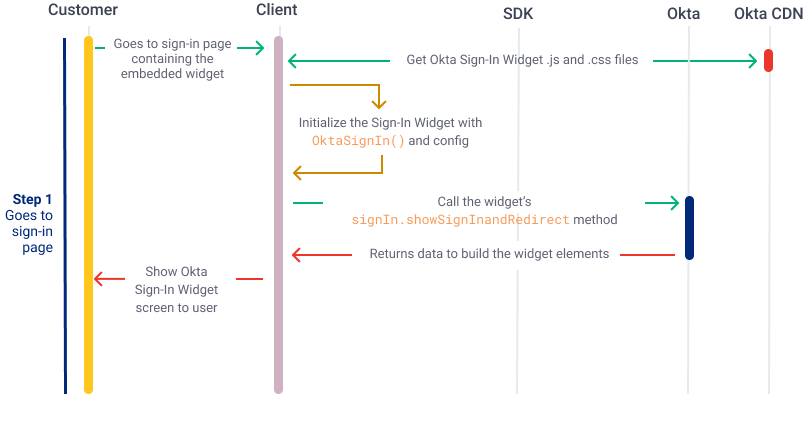
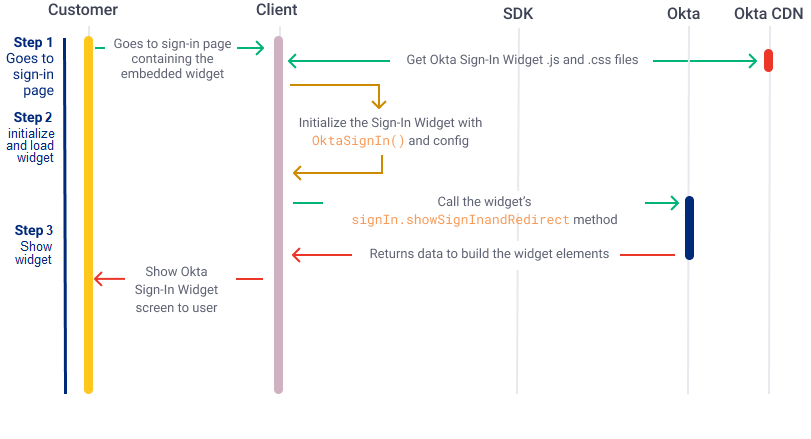
Updates to sequence images for widget use cases and minor text updates

Changed region(s): [[0.0, 0.0888, 0.0925, 0.385], [0.0, 0.4442, 0.0617, 0.6219]]

diff --git a/packages/@okta/vuepress-site/docs/guides/oie-embedded-sdk-use-cases/oie-embedded-sdk-use-case-pwd-recovery-mfa/nodejs/integrationsteps.md b/packages/@okta/vuepress-site/docs/guides/oie-embedded-sdk-use-cases/oie-embedded-sdk-use-case-pwd-recovery-mfa/nodejs/integrationsteps.md
@@ -54,6 +54,8 @@ The next step is to create a page that shows the authenticator returned from the
 
 </div>
 
+### Step 3: Select the email authenticator factor
+
 After the user selects the email authenticator, the next step is to call `idx.recoverPassword` with the authenticator type, as shown in the `authenticator.js` file of the SDK sample application. The method returns a status of `Idx.Status:PENDING`. This status indicates that the Okta platform has emailed the verification code to the user's email address and is now awaiting verification. The response also includes a `nextStep` field that requires an email verification code input parameter.
 
 ```JavaScript
@@ -66,7 +68,7 @@ router.post('/select-authenticator', async (req, res, next) => {
 });
 ```
 
-### Step 4: Create code verification page
+### Step 4: Create code verification page and reset password
 
 After the call to `idx.recoverPassword` has responded with a status of `Idx.Status:PENDING`, the user is redirected to a code verification page. The page must display a field to enter a code and a button or link to send the code to Okta for the email verification.
 
@@ -90,8 +92,6 @@ router.post('/challenge-authenticator/email', async (req, res, next) => {
 
 If the `idx.recoverPassword` call is successful, it returns a status of `Idx.Status:PENDING` and the `nextStep` field indicates an input of a password value parameter. This status indicates that the user can now change their password. At this point, the user is redirected to a change password page.
 
-### Step 5: Create reset password page
-
 Create a reset password page that allows the user to enter the new password, confirm it, and initiate the update.
 
 <div class="common-image-format">
@@ -99,6 +99,8 @@ Create a reset password page that allows the user to enter the new password, con
 ![Displays the Reset Password page that has a field to input your password and a field to confirm the password value.](/img/oie-embedded-sdk/oie-embedded-sdk-use-case-pwd-recovery-screenshot-set-password-nodejs.png)
 
 </div>
+
+### Step 5: Add new password
 
 The final step is to make a call to `idx.recoverPassword`, passing in the value of the user input password, as shown in the `recover-password.js` file of the SDK sample application. This call resets the user's password.
 

diff --git a/packages/@okta/vuepress-site/docs/guides/oie-embedded-widget-use-cases/oie-embedded-widget-use-case-sign-in-soc-idp/nodejs/integrationsteps.md b/packages/@okta/vuepress-site/docs/guides/oie-embedded-widget-use-cases/oie-embedded-widget-use-case-sign-in-soc-idp/nodejs/integrationsteps.md
@@ -26,6 +26,7 @@ you need to make in your app to support to this step.
 </div>
 
 ### Step 3: Facebook redirects to your Okta org
+
 If the user Facebook login is successful, facebook routes the user to the value you enter for **Valid OAuth Redirect URIs** and **Site URL** in
 [Set up your Okta org (for social identity providers)](/docs/guides/oie-embedded-common-org-setup/nodejs/main/#set-up-your-okta-org-for-social-identity-providers).
 The value takes on the following format:  `https://{Okta org domain}/oauth2/v1/authorize/callback.` (for example, `https://dev-12345678.okta.com/oauth2/v1/authorize/callback`)
@@ -50,7 +51,6 @@ and must be identical. These locations are:
 For the sample application, the **RedirectURI** should be set to `http://localhost:8080/login/callback`
 
 Okta returns the interaction code to the **Sign-in redirect URI** that is specified in the [create new application step](/docs/guides/oie-embedded-common-org-setup/nodejs/main/#create-a-new-application) and is accessed in the sample app from `login.js`.
-
 
 ```JavaScript
 router.get('/login/callback', async (req, res, next) => {
@@ -92,7 +92,7 @@ Use the interaction code component of the `login.js` page to request tokens and 
   }
 ```
 
-### Step 4: Call user profile information (optional)
+### Step 6: Call user profile information (optional)
 
 Retrieve the user profile information, stored in the `attributes` variable, from the `home.js` file:
 
